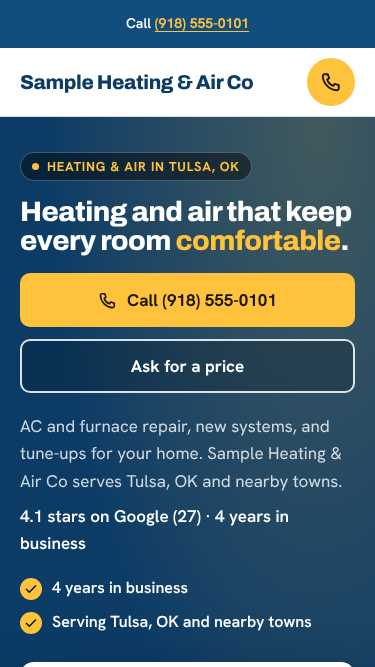
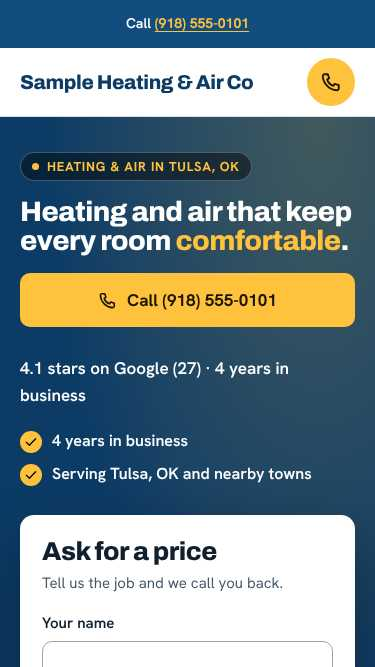
sitemaker QA ba7f982 polish: Classic phone band uses a different variation than the hero and the picker's first picture, phone first screen keeps one Call button and the trust line (no paragraph), featured project and steps only on wider screens (phone page under budget), per-variation framing for t
Claude-Session: https://claude.ai/code/session_013FPdmvdFwEUwCe9wgNc5SW

Changed region(s): [[0.0293, 0.5097, 0.968, 1.0]]

diff --git a/sitemaker/maker.html b/sitemaker/maker.html
@@ -3666,7 +3666,8 @@ function pickerHtml(o) {
     const pic = it.before
       ? `<div class="vp-ba" data-pos="0" style="--pos:0">${o.img(it.after, `${it.label}, after`, `class="vp-after" ${lazy}`, tags[1])}${o.img(it.before, `${it.label}, before`, `class="vp-before" ${lazy}`, tags[0])}<span class="vp-tag vp-tag-b" aria-hidden="true">${vpEsc(tags[0])}</span><span class="vp-tag vp-tag-a" aria-hidden="true">${vpEsc(tags[1])}</span><div class="vp-handle" role="slider" tabindex="-1" aria-hidden="true" aria-label="${vpEsc(it.label)}: ${vpEsc(tags[0]).toLowerCase()} and ${vpEsc(tags[1]).toLowerCase()}" aria-orientation="horizontal" aria-valuemin="0" aria-valuemax="100" aria-valuenow="0" aria-valuetext="0 percent"><span class="vp-knob">${VP_ARROWS}</span></div></div>`
       : `<div class="vp-ba vp-one">${o.img(it.after, it.label, `class="vp-after" ${lazy}`, "")}</div>`;
-    return `<div class="vp-panel" role="tabpanel" id="vp-p-${i}" aria-labelledby="vp-t-${i}" data-i="${i}">
+    const own = { metal: "50% 12%", flat: "50% 40%", slat: "50% 50%" }[it.key];
+    return `<div class="vp-panel" role="tabpanel" id="vp-p-${i}" aria-labelledby="vp-t-${i}" data-i="${i}"${own ? ` style="--fp-m:${own};--fp-d:${own}"` : ""}>
     <div class="vp-stage">${pic}<button type="button" class="vp-nav vp-prev" aria-label="Previous: ${vpEsc(items[(i - 1 + items.length) % items.length].label)}">${VP_CHEV("M15 6l-6 6 6 6")}</button><button type="button" class="vp-nav vp-next" aria-label="Next: ${vpEsc(items[(i + 1) % items.length].label)}">${VP_CHEV("M9 6l6 6-6 6")}</button><span class="vp-count" aria-hidden="true">${i + 1} / ${items.length}</span></div>
     <div class="vp-info"><h3 class="vp-name">${vpEsc(it.label)}</h3>${it.note ? `<p class="vp-note">${vpEsc(it.note)}</p>` : ""}${price ? `<p class="vp-price"><span class="vp-pr"><b>${vpEsc(price)}</b> ${vpEsc(o.unit || "")}</span><span>Estimate from the owner. The exact price comes after we look.</span></p>` : ""}
       <div class="vp-btns">${it.before ? `<button type="button" class="vp-btn vp-ghost vp-cmp" aria-pressed="false" aria-controls="vp-p-${i}">${VP_ARROWS}<span>Compare before and after</span></button>` : ""}<a class="vp-btn vp-solid" href="#contact" data-job="${vpEsc(jobFor(it.label, it.key))}">Ask about this</a></div></div>
@@ -4125,7 +4126,7 @@ a:focus-visible,button:focus-visible,summary:focus-visible,.dial:focus-visible{o
    pinned screen at ~1.3x, the subject is framed per slot (--fp), and the headline and buttons sit below it on dark. */
 @media (max-width:759px){
   .cine-motion .pin{background:var(--dark)}
-  .cine-motion .frame{bottom:auto;height:calc(100% - var(--cta-h,200px) - 150px);min-height:44%;overflow:hidden}
+  .cine-motion .frame{bottom:auto;height:calc(100% - var(--cta-h,200px) - 150px);min-height:44%;max-height:440px;overflow:hidden}
   .cine-motion .frame::after{background:linear-gradient(0deg,var(--dark) 0%,rgba(0,0,0,0) 26%)}
   .cine-motion .step .line{bottom:calc(var(--cta-h,200px) + 30px)}
   .cine-motion .line .h{font-size:clamp(46px,12.4vw,54px);text-shadow:none}
@@ -4850,7 +4851,7 @@ a:focus-visible,button:focus-visible,summary:focus-visible,input:focus-visible+s
 .ed-cta{display:flex;flex-wrap:wrap;align-items:center;gap:14px 20px;margin-top:20px}
 .ed-sil{position:relative;aspect-ratio:4/3;background:var(--ed-dark);overflow:hidden;clip-path:var(--ed-clip,polygon(0% 100%,0% 42%,50% 2%,100% 42%,100% 100%))}
 .ed-sil img,.ed-beat img,.ed-card img,.ed-pic img{position:absolute;inset:0;width:100%;height:100%;object-fit:cover;object-position:50% 6%;display:block}
-.ed-sil img[data-real]{object-position:60% 38%}
+.ed-sil img[data-real]{object-position:60% 46%}
 .ed-card img[data-real],.ed-pic img[data-real],.ed-row-pic img[data-real],.ed-process-pic img[data-real],.ed-how-pic img[data-real]{object-position:72% 45%}
 .ed-beat img[data-real]{object-position:85% 50%}
 .ed-cap{position:absolute;left:12px;bottom:12px;z-index:2;padding:5px 10px;border-radius:999px;background:rgba(0,0,0,.6);color:#fff;font:600 11px/1 var(--ed-sans);letter-spacing:.1em;text-transform:uppercase}
@@ -5615,7 +5616,7 @@ function generateClassic(form, d, o) {
     <div class="cl-hero-text">
       <p class="cl-pill">${esc(tradeName)}${area ? ` in ${area}` : ""}</p>
       <h1 style="${clH1(h1Text)}">${promise ? clAccent(h1Text, promise.accent) : esc(h1Text)}</h1>
-      <p class="hero-sub">${esc(t.sub)} ${name} serves ${areaPhrase}.${top.length ? ` <b class="hero-trust">${esc(top.join(" · "))}</b>` : ""}</p>
+      <p class="hero-sub"><span class="cl-sub-txt">${esc(t.sub)} ${name} serves ${areaPhrase}.</span>${top.length ? ` <b class="hero-trust">${esc(top.join(" · "))}</b>` : ""}</p>
       <ul class="cl-checks">${checks.slice(0, 3).map((x) => `<li>${clIcon(CL_CHECK, 18)}<span>${x}</span></li>`).join("")}</ul>
       <div class="hero-cta" id="hero-cta">${callBtn("btn btn-accent")}<a class="btn btn-line cl-to-form" href="#ask">${askLabel}</a></div>
     </div>
@@ -5628,7 +5629,8 @@ function generateClassic(form, d, o) {
   const proof = badges.length ? `<section class="cl-proof" id="proof" aria-label="Why people trust us"><div class="wrap"><ul>${badges.slice(0, 5).map((b, i) => `<li class="rv${i >= 4 ? " cl-p5" : ""}">${b.url ? `<a href="${esc(b.url)}" target="_blank" rel="noopener noreferrer">` : ""}<b>${esc(b.label)}</b>${b.sub ? `<span>${esc(b.sub)}</span>` : ""}${b.url ? "</a>" : ""}</li>`).join("")}</ul></div></section>` : "";
 
   // 3b. Phones: one full-width photo of finished work between the proof strip and the cards (real pictures only).
-  const bandItem = items.find((x) => safeImage(imgs[x.after]));
+  // never the picture the hero or the picker opens on
+  const bandItem = items.slice(1).find((x) => safeImage(imgs[x.after]) && imgs[x.after] !== hero);
   const photoBand = bandItem ? `<figure class="cl-photo-band"><img src="${esc(imgs[bandItem.after])}" alt="${esc(bandItem.label)}" loading="lazy" decoding="async"><figcaption>${esc(bandItem.label)}</figcaption></figure>` : "";
   // 4. Service cards with a small tag.
   const services = `<section class="sec" id="services"><div class="wrap">
@@ -5799,7 +5801,7 @@ a:focus-visible,button:focus-visible,summary:focus-visible,input:focus-visible,s
 .cl-photo-band img{display:block;width:100%;aspect-ratio:16/9;object-fit:cover}
 .cl-photo-band figcaption{position:absolute;left:12px;bottom:12px;font:800 12px/1 var(--body);letter-spacing:.1em;text-transform:uppercase;color:#fff;background:rgba(0,0,0,.6);padding:7px 10px;border-radius:6px}
 @media (max-width:1023px){.cl-photo-band{display:block}}
-@media (max-width:639px){.has-offer .cl-offer-call{display:none}}
+@media (max-width:639px){.has-offer .cl-offer-call{display:none}.cl-sub-txt{display:none}.hero-sub b{margin-top:0}.cl-hero-text .cl-to-form{display:none}}
 .cl-offer a{color:var(--hi);font-weight:700;display:inline-flex;align-items:center;min-height:48px;margin-block:-9px}
 .top{position:sticky;top:0;z-index:30;background:#fff;box-shadow:0 1px 0 var(--line)}
 .top .wrap{display:flex;align-items:center;gap:24px;min-height:68px}
@@ -5957,7 +5959,7 @@ footer .wrap{display:grid;gap:28px;padding-block:48px 28px}
   .cl-cards h3{font-size:17px}
   .cl-cards p{display:none}
   .cl-more{min-height:44px;font-size:15px}
-  #how{display:none} /* phones: the FAQ answers "How do I get started?"; the page stays short */
+  #how,#project{display:none} /* phones: the FAQ answers "How do I get started?" and the picker already shows a before/after; the page stays short */
   .cl-feat-pics figure{aspect-ratio:1/1}
   .sec{padding-block:52px}
 }

diff --git a/sitemaker/src/classic.js b/sitemaker/src/classic.js
@@ -97,7 +97,7 @@ export function generateClassic(form, d, o) {
     <div class="cl-hero-text">
       <p class="cl-pill">${esc(tradeName)}${area ? ` in ${area}` : ""}</p>
       <h1 style="${clH1(h1Text)}">${promise ? clAccent(h1Text, promise.accent) : esc(h1Text)}</h1>
-      <p class="hero-sub">${esc(t.sub)} ${name} serves ${areaPhrase}.${top.length ? ` <b class="hero-trust">${esc(top.join(" · "))}</b>` : ""}</p>
+      <p class="hero-sub"><span class="cl-sub-txt">${esc(t.sub)} ${name} serves ${areaPhrase}.</span>${top.length ? ` <b class="hero-trust">${esc(top.join(" · "))}</b>` : ""}</p>
       <ul class="cl-checks">${checks.slice(0, 3).map((x) => `<li>${clIcon(CL_CHECK, 18)}<span>${x}</span></li>`).join("")}</ul>
       <div class="hero-cta" id="hero-cta">${callBtn("btn btn-accent")}<a class="btn btn-line cl-to-form" href="#ask">${askLabel}</a></div>
     </div>
@@ -110,7 +110,8 @@ export function generateClassic(form, d, o) {
   const proof = badges.length ? `<section class="cl-proof" id="proof" aria-label="Why people trust us"><div class="wrap"><ul>${badges.slice(0, 5).map((b, i) => `<li class="rv${i >= 4 ? " cl-p5" : ""}">${b.url ? `<a href="${esc(b.url)}" target="_blank" rel="noopener noreferrer">` : ""}<b>${esc(b.label)}</b>${b.sub ? `<span>${esc(b.sub)}</span>` : ""}${b.url ? "</a>" : ""}</li>`).join("")}</ul></div></section>` : "";
 
   // 3b. Phones: one full-width photo of finished work between the proof strip and the cards (real pictures only).
-  const bandItem = items.find((x) => safeImage(imgs[x.after]));
+  // never the picture the hero or the picker opens on
+  const bandItem = items.slice(1).find((x) => safeImage(imgs[x.after]) && imgs[x.after] !== hero);
   const photoBand = bandItem ? `<figure class="cl-photo-band"><img src="${esc(imgs[bandItem.after])}" alt="${esc(bandItem.label)}" loading="lazy" decoding="async"><figcaption>${esc(bandItem.label)}</figcaption></figure>` : "";
   // 4. Service cards with a small tag.
   const services = `<section class="sec" id="services"><div class="wrap">
@@ -281,7 +282,7 @@ a:focus-visible,button:focus-visible,summary:focus-visible,input:focus-visible,s
 .cl-photo-band img{display:block;width:100%;aspect-ratio:16/9;object-fit:cover}
 .cl-photo-band figcaption{position:absolute;left:12px;bottom:12px;font:800 12px/1 var(--body);letter-spacing:.1em;text-transform:uppercase;color:#fff;background:rgba(0,0,0,.6);padding:7px 10px;border-radius:6px}
 @media (max-width:1023px){.cl-photo-band{display:block}}
-@media (max-width:639px){.has-offer .cl-offer-call{display:none}}
+@media (max-width:639px){.has-offer .cl-offer-call{display:none}.cl-sub-txt{display:none}.hero-sub b{margin-top:0}.cl-hero-text .cl-to-form{display:none}}
 .cl-offer a{color:var(--hi);font-weight:700;display:inline-flex;align-items:center;min-height:48px;margin-block:-9px}
 .top{position:sticky;top:0;z-index:30;background:#fff;box-shadow:0 1px 0 var(--line)}
 .top .wrap{display:flex;align-items:center;gap:24px;min-height:68px}
@@ -439,7 +440,7 @@ footer .wrap{display:grid;gap:28px;padding-block:48px 28px}
   .cl-cards h3{font-size:17px}
   .cl-cards p{display:none}
   .cl-more{min-height:44px;font-size:15px}
-  #how{display:none} /* phones: the FAQ answers "How do I get started?"; the page stays short */
+  #how,#project{display:none} /* phones: the FAQ answers "How do I get started?" and the picker already shows a before/after; the page stays short */
   .cl-feat-pics figure{aspect-ratio:1/1}
   .sec{padding-block:52px}
 }

diff --git a/sitemaker/src/picker.js b/sitemaker/src/picker.js
@@ -89,7 +89,8 @@ export function pickerHtml(o) {
     const pic = it.before
       ? `<div class="vp-ba" data-pos="0" style="--pos:0">${o.img(it.after, `${it.label}, after`, `class="vp-after" ${lazy}`, tags[1])}${o.img(it.before, `${it.label}, before`, `class="vp-before" ${lazy}`, tags[0])}<span class="vp-tag vp-tag-b" aria-hidden="true">${vpEsc(tags[0])}</span><span class="vp-tag vp-tag-a" aria-hidden="true">${vpEsc(tags[1])}</span><div class="vp-handle" role="slider" tabindex="-1" aria-hidden="true" aria-label="${vpEsc(it.label)}: ${vpEsc(tags[0]).toLowerCase()} and ${vpEsc(tags[1]).toLowerCase()}" aria-orientation="horizontal" aria-valuemin="0" aria-valuemax="100" aria-valuenow="0" aria-valuetext="0 percent"><span class="vp-knob">${VP_ARROWS}</span></div></div>`
       : `<div class="vp-ba vp-one">${o.img(it.after, it.label, `class="vp-after" ${lazy}`, "")}</div>`;
-    return `<div class="vp-panel" role="tabpanel" id="vp-p-${i}" aria-labelledby="vp-t-${i}" data-i="${i}">
+    const own = { metal: "50% 12%", flat: "50% 40%", slat: "50% 50%" }[it.key];
+    return `<div class="vp-panel" role="tabpanel" id="vp-p-${i}" aria-labelledby="vp-t-${i}" data-i="${i}"${own ? ` style="--fp-m:${own};--fp-d:${own}"` : ""}>
     <div class="vp-stage">${pic}<button type="button" class="vp-nav vp-prev" aria-label="Previous: ${vpEsc(items[(i - 1 + items.length) % items.length].label)}">${VP_CHEV("M15 6l-6 6 6 6")}</button><button type="button" class="vp-nav vp-next" aria-label="Next: ${vpEsc(items[(i + 1) % items.length].label)}">${VP_CHEV("M9 6l6 6-6 6")}</button><span class="vp-count" aria-hidden="true">${i + 1} / ${items.length}</span></div>
     <div class="vp-info"><h3 class="vp-name">${vpEsc(it.label)}</h3>${it.note ? `<p class="vp-note">${vpEsc(it.note)}</p>` : ""}${price ? `<p class="vp-price"><span class="vp-pr"><b>${vpEsc(price)}</b> ${vpEsc(o.unit || "")}</span><span>Estimate from the owner. The exact price comes after we look.</span></p>` : ""}
       <div class="vp-btns">${it.before ? `<button type="button" class="vp-btn vp-ghost vp-cmp" aria-pressed="false" aria-controls="vp-p-${i}">${VP_ARROWS}<span>Compare before and after</span></button>` : ""}<a class="vp-btn vp-solid" href="#contact" data-job="${vpEsc(jobFor(it.label, it.key))}">Ask about this</a></div></div>

diff --git a/sitemaker/src/editorial.js b/sitemaker/src/editorial.js
@@ -122,7 +122,7 @@ a:focus-visible,button:focus-visible,summary:focus-visible,input:focus-visible+s
 .ed-cta{display:flex;flex-wrap:wrap;align-items:center;gap:14px 20px;margin-top:20px}
 .ed-sil{position:relative;aspect-ratio:4/3;background:var(--ed-dark);overflow:hidden;clip-path:var(--ed-clip,polygon(0% 100%,0% 42%,50% 2%,100% 42%,100% 100%))}
 .ed-sil img,.ed-beat img,.ed-card img,.ed-pic img{position:absolute;inset:0;width:100%;height:100%;object-fit:cover;object-position:50% 6%;display:block}
-.ed-sil img[data-real]{object-position:60% 38%}
+.ed-sil img[data-real]{object-position:60% 46%}
 .ed-card img[data-real],.ed-pic img[data-real],.ed-row-pic img[data-real],.ed-process-pic img[data-real],.ed-how-pic img[data-real]{object-position:72% 45%}
 .ed-beat img[data-real]{object-position:85% 50%}
 .ed-cap{position:absolute;left:12px;bottom:12px;z-index:2;padding:5px 10px;border-radius:999px;background:rgba(0,0,0,.6);color:#fff;font:600 11px/1 var(--ed-sans);letter-spacing:.1em;text-transform:uppercase}

diff --git a/sitemaker/src/cinematic.js b/sitemaker/src/cinematic.js
@@ -180,7 +180,7 @@ a:focus-visible,button:focus-visible,summary:focus-visible,.dial:focus-visible{o
    pinned screen at ~1.3x, the subject is framed per slot (--fp), and the headline and buttons sit below it on dark. */
 @media (max-width:759px){
   .cine-motion .pin{background:var(--dark)}
-  .cine-motion .frame{bottom:auto;height:calc(100% - var(--cta-h,200px) - 150px);min-height:44%;overflow:hidden}
+  .cine-motion .frame{bottom:auto;height:calc(100% - var(--cta-h,200px) - 150px);min-height:44%;max-height:440px;overflow:hidden}
   .cine-motion .frame::after{background:linear-gradient(0deg,var(--dark) 0%,rgba(0,0,0,0) 26%)}
   .cine-motion .step .line{bottom:calc(var(--cta-h,200px) + 30px)}
   .cine-motion .line .h{font-size:clamp(46px,12.4vw,54px);text-shadow:none}
